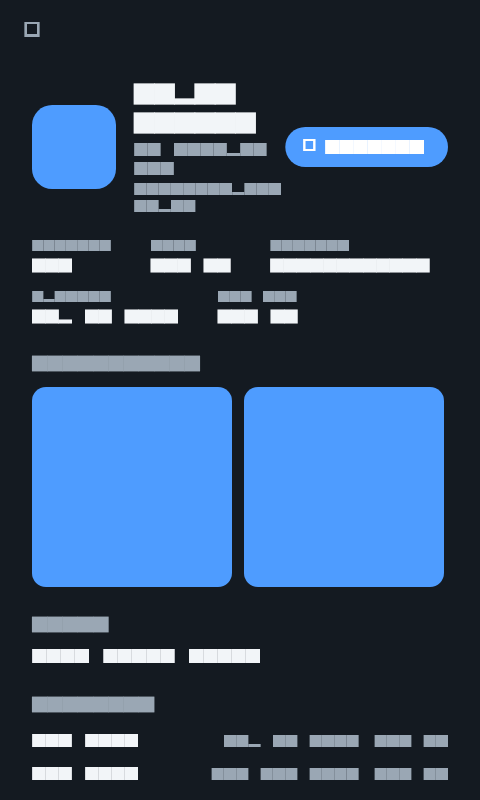
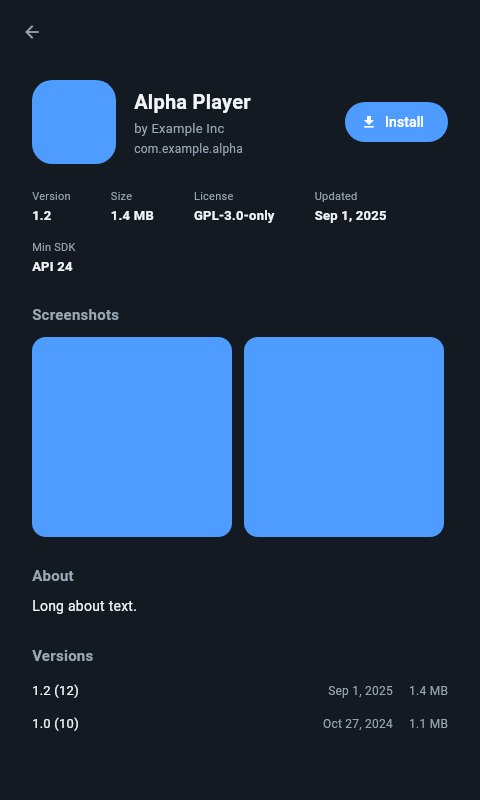
test: 商店 golden 加载真实字体渲染

diff --git a/applications/store/test/golden/store_golden_test.dart b/applications/store/test/golden/store_golden_test.dart
@@ -1,28 +1,72 @@
+import 'dart:io';
+
 import 'package:flutter/material.dart';
+import 'package:flutter/services.dart';
 import 'package:flutter_test/flutter_test.dart';
-import 'package:pn2_store/main.dart';
+import 'package:pn2_store/l10n/app_localizations.dart';
 import 'package:pn2_store/src/store_controller.dart';
+import 'package:pn2_store/src/ui/store_page.dart';
+import 'package:pn2_store/src/ui/theme.dart';
 
 import '../helpers.dart';
 
-Future<StoreController> pumpGolden(
-  WidgetTester tester, {
-  Size size = const Size(1280, 800),
-}) async {
-  tester.view.physicalSize = size;
-  tester.view.devicePixelRatio = 1.0;
-  addTearDown(tester.view.reset);
-  final c = await readyController();
-  await tester.pumpWidget(StoreApp(controller: c));
-  for (var i = 0; i < 10; i++) {
-    await tester.pump(const Duration(milliseconds: 50));
-  }
-  return c;
-}
-
+/// Canonical goldens render real Roboto and MaterialIcons, loaded from
+/// the Flutter SDK font cache - the pngs double as README art. Hosts
+/// without the font cache skip the assertions instead of failing.
 void main() {
+  TestWidgetsFlutterBinding.ensureInitialized();
+
+  final fontDir = '${Platform.environment['FLUTTER_ROOT'] ?? ''}'
+      '/bin/cache/artifacts/material_fonts';
+  var fontsReady = false;
+
+  setUpAll(() async {
+    if (!File('$fontDir/Roboto-Regular.ttf').existsSync()) return;
+    Future<void> load(String family, String file) async {
+      final bytes = await File('$fontDir/$file').readAsBytes();
+      await (FontLoader(family)
+            ..addFont(Future.value(ByteData.sublistView(bytes))))
+          .load();
+    }
+
+    await load('Roboto', 'Roboto-Regular.ttf');
+    await load('Roboto', 'Roboto-Medium.ttf');
+    await load('Roboto', 'Roboto-Bold.ttf');
+    await load('MaterialIcons', 'MaterialIcons-Regular.otf');
+    fontsReady = true;
+  });
+
+  ThemeData themed() => StoreTheme.data().copyWith(
+        textTheme:
+            StoreTheme.data().textTheme.apply(fontFamily: 'Roboto'),
+      );
+
+  Future<StoreController> pump(
+    WidgetTester tester, {
+    Size size = const Size(1280, 800),
+  }) async {
+    tester.view.physicalSize = size;
+    tester.view.devicePixelRatio = 1.0;
+    addTearDown(tester.view.reset);
+    final c = await readyController();
+    await tester.pumpWidget(
+      MaterialApp(
+        localizationsDelegates: AppLocalizations.localizationsDelegates,
+        supportedLocales: AppLocalizations.supportedLocales,
+        theme: themed(),
+        debugShowCheckedModeBanner: false,
+        home: StorePage(controller: c),
+      ),
+    );
+    for (var i = 0; i < 10; i++) {
+      await tester.pump(const Duration(milliseconds: 50));
+    }
+    return c;
+  }
+
   testWidgets('catalog golden', (tester) async {
-    await pumpGolden(tester);
+    if (!fontsReady) return;
+    await pump(tester);
     await expectLater(
       find.byType(MaterialApp),
       matchesGoldenFile('goldens/store_catalog.png'),
@@ -30,7 +74,8 @@ void main() {
   });
 
   testWidgets('detail pane golden', (tester) async {
-    final c = await pumpGolden(tester);
+    if (!fontsReady) return;
+    final c = await pump(tester);
     c.store.select('com.example.alpha');
     for (var i = 0; i < 10; i++) {
       await tester.pump(const Duration(milliseconds: 50));
@@ -42,7 +87,8 @@ void main() {
   });
 
   testWidgets('compact detail golden', (tester) async {
-    await pumpGolden(tester, size: const Size(480, 800));
+    if (!fontsReady) return;
+    await pump(tester, size: const Size(480, 800));
     await tester.tap(find.text('Alpha Player'));
     await tester.pumpAndSettle();
     await expectLater(
@@ -52,12 +98,21 @@ void main() {
   });
 
   testWidgets('error golden', (tester) async {
+    if (!fontsReady) return;
     tester.view.physicalSize = const Size(1280, 800);
     tester.view.devicePixelRatio = 1.0;
     addTearDown(tester.view.reset);
     final c = testController(throwError: Exception('offline'));
     await c.start();
-    await tester.pumpWidget(StoreApp(controller: c));
+    await tester.pumpWidget(
+      MaterialApp(
+        localizationsDelegates: AppLocalizations.localizationsDelegates,
+        supportedLocales: AppLocalizations.supportedLocales,
+        theme: themed(),
+        debugShowCheckedModeBanner: false,
+        home: StorePage(controller: c),
+      ),
+    );
     for (var i = 0; i < 10; i++) {
       await tester.pump(const Duration(milliseconds: 50));
     }
